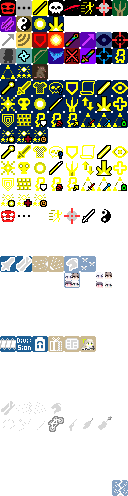
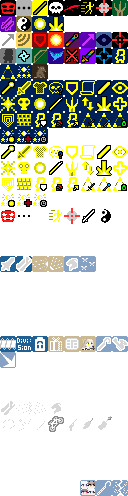
미야코 교복 능력 1 및 특성 구현, 문장 추가, 특성 및 교복 능력 아이콘 추가

diff --git a/core/src/main/java/com/shatteredpixel/shatteredpixeldungeon/actors/hero/abilities/miyako/WireHook.java b/core/src/main/java/com/shatteredpixel/shatteredpixeldungeon/actors/hero/abilities/miyako/WireHook.java
@@ -1,13 +1,32 @@
 package com.shatteredpixel.shatteredpixeldungeon.actors.hero.abilities.miyako;
 
+import com.shatteredpixel.shatteredpixeldungeon.Dungeon;
+import com.shatteredpixel.shatteredpixeldungeon.actors.Actor;
+import com.shatteredpixel.shatteredpixeldungeon.actors.Char;
+import com.shatteredpixel.shatteredpixeldungeon.actors.buffs.Buff;
+import com.shatteredpixel.shatteredpixeldungeon.actors.buffs.Cripple;
+import com.shatteredpixel.shatteredpixeldungeon.actors.buffs.FlavourBuff;
 import com.shatteredpixel.shatteredpixeldungeon.actors.buffs.Invisibility;
+import com.shatteredpixel.shatteredpixeldungeon.actors.buffs.Roots;
 import com.shatteredpixel.shatteredpixeldungeon.actors.hero.Hero;
 import com.shatteredpixel.shatteredpixeldungeon.actors.hero.Talent;
 import com.shatteredpixel.shatteredpixeldungeon.actors.hero.abilities.ArmorAbility;
-import com.shatteredpixel.shatteredpixeldungeon.actors.hero.abilities.warrior.HeroicLeap;
+import com.shatteredpixel.shatteredpixeldungeon.effects.Chains;
+import com.shatteredpixel.shatteredpixeldungeon.effects.Effects;
+import com.shatteredpixel.shatteredpixeldungeon.effects.Pushing;
+import com.shatteredpixel.shatteredpixeldungeon.items.Item;
 import com.shatteredpixel.shatteredpixeldungeon.items.armor.ClassArmor;
+import com.shatteredpixel.shatteredpixeldungeon.levels.MiningLevel;
+import com.shatteredpixel.shatteredpixeldungeon.mechanics.Ballistica;
 import com.shatteredpixel.shatteredpixeldungeon.messages.Messages;
+import com.shatteredpixel.shatteredpixeldungeon.scenes.GameScene;
+import com.shatteredpixel.shatteredpixeldungeon.ui.BuffIndicator;
 import com.shatteredpixel.shatteredpixeldungeon.ui.HeroIcon;
+import com.shatteredpixel.shatteredpixeldungeon.utils.GLog;
+import com.watabou.noosa.Image;
+import com.watabou.utils.BArray;
+import com.watabou.utils.Callback;
+import com.watabou.utils.PathFinder;
 
 public class WireHook extends ArmorAbility {
     {
@@ -16,13 +35,49 @@ public class WireHook extends ArmorAbility {
 
     @Override
     protected void activate(ClassArmor armor, Hero hero, Integer target) {
-        if (target != null) {
-            armor.charge -= chargeUse(hero);
-            armor.updateQuickslot();
-            Invisibility.dispel();
+        if (target != null && (Dungeon.level.visited[target] || Dungeon.level.mapped[target])){
+            //chains cannot be used to go where it is impossible to walk to
+            PathFinder.buildDistanceMap(target, BArray.or(Dungeon.level.passable, Dungeon.level.avoid, null));
+            if (!(Dungeon.level instanceof MiningLevel) && PathFinder.distance[hero.pos] == Integer.MAX_VALUE){
+                GLog.w( Messages.get(this, "cant_reach") );
+                return;
+            }
 
-            hero.spendAndNext(1f);
-            hero.sprite.zap(target);
+            int ballistica = Ballistica.PROJECTILE;
+
+            final Ballistica chain = new Ballistica(hero.pos, target, ballistica);
+
+            Char ch = Actor.findChar( chain.collisionPos );
+            if (ch != null){
+                if (chainEnemy( chain, hero, ch )) {
+                    armor.charge -= chargeUse(hero);
+                    armor.updateQuickslot();
+                    Invisibility.dispel();
+
+                    hero.spendAndNext(1f);
+                    hero.sprite.zap(target);
+
+                    Buff.affect(ch, Cripple.class, 5f);
+
+                    if (hero.hasTalent(Talent.MIYAKO_ARMOR1_1)) {
+                        Buff.affect(ch, Roots.class, hero.pointsInTalent(Talent.MIYAKO_ARMOR1_1));
+                    }
+                    if (hero.hasTalent(Talent.MIYAKO_ARMOR1_2)) {
+                        if (hero.buff(ContinuousChainTracker.class) == null) {
+                            Buff.affect(hero, ContinuousChainTracker.class, ContinuousChainTracker.DURATION);
+                        } else {
+                            hero.buff(ContinuousChainTracker.class).detach();
+                        }
+                    }
+                    if (hero.hasTalent(Talent.MIYAKO_ARMOR1_3)) {
+                        Buff.affect(hero, PointBlankShot.class, 4f*hero.pointsInTalent(Talent.MIYAKO_ARMOR1_3));
+                    }
+                } else {
+                    GLog.w( Messages.get(this, "failed") );
+                }
+            } else {
+                GLog.w( Messages.get(this, "no_char") );
+            }
         }
     }
 
@@ -39,15 +94,86 @@ public class WireHook extends ArmorAbility {
     @Override
     public float chargeUse( Hero hero ) {
         float chargeUse = super.chargeUse(hero);
-//        if (hero.buff(HeroicLeap.DoubleJumpTracker.class) != null){
-//            //reduced charge use by 16%/30%/41%/50%
-//            chargeUse *= Math.pow(0.84, hero.pointsInTalent(Talent.DOUBLE_JUMP));
-//        }
+        if (hero.buff(ContinuousChainTracker.class) != null){
+            //reduced charge use by 16%/30%/41%/50%
+            chargeUse *= (float) Math.pow(0.9f, hero.pointsInTalent(Talent.MIYAKO_ARMOR1_2));
+        }
         return chargeUse;
     }
 
     @Override
     public Talent[] talents() {
         return new Talent[]{Talent.MIYAKO_ARMOR1_1, Talent.MIYAKO_ARMOR1_2, Talent.MIYAKO_ARMOR1_3, Talent.HEROIC_ENERGY};
+    }
+
+    //returns true when pulling is successfully performed
+    private boolean chainEnemy( Ballistica chain, final Hero hero, final Char enemy ){
+        if (enemy.properties().contains(Char.Property.IMMOVABLE)) {
+            GLog.w( Messages.get(this, "cant_pull") );
+            return false;
+        }
+
+        int bestPos = -1;
+        for (int i : chain.subPath(1, chain.dist)){
+            //prefer to the earliest point on the path
+            if (!Dungeon.level.solid[i]
+                    && Actor.findChar(i) == null
+                    && (!Char.hasProp(enemy, Char.Property.LARGE) || Dungeon.level.openSpace[i])){
+                bestPos = i;
+                break;
+            }
+        }
+
+        if (bestPos == -1) {
+            GLog.i(Messages.get(this, "does_nothing"));
+            return false;
+        }
+
+        final int pulledPos = bestPos;
+        hero.sprite.parent.add(new Chains(hero.sprite.center(),
+            enemy.sprite.center(),
+            Effects.Type.CHAIN,
+            new Callback() {
+                public void call() {
+                    Actor.add(new Pushing(enemy, enemy.pos, pulledPos, new Callback() {
+                        public void call() {
+                            enemy.pos = pulledPos;
+                            Dungeon.level.occupyCell(enemy);
+                            Dungeon.observe();
+                            GameScene.updateFog();
+
+                            Item.updateQuickslot();
+                        }
+                    }));
+                }
+            })
+        );
+        return true;
+    }
+
+    public static class ContinuousChainTracker extends FlavourBuff {
+        {
+            type = buffType.NEUTRAL;
+        }
+        public static final float DURATION = 3f;
+    }
+
+    public static class PointBlankShot extends FlavourBuff {
+        {
+            type = buffType.POSITIVE;
+            announced = true;
+        }
+
+        public static final float DURATION = 16f;
+
+        @Override
+        public int icon() {
+            return BuffIndicator.INVERT_MARK;
+        }
+
+        @Override
+        public void tintIcon(Image icon) {
+            icon.hardlight(0x4D4D4D);
+        }
     }
 }

diff --git a/core/src/main/java/com/shatteredpixel/shatteredpixeldungeon/items/weapon/melee/gun/Gun.java b/core/src/main/java/com/shatteredpixel/shatteredpixeldungeon/items/weapon/melee/gun/Gun.java
@@ -14,6 +14,7 @@ import com.shatteredpixel.shatteredpixeldungeon.actors.buffs.ShootAllBuff;
 import com.shatteredpixel.shatteredpixeldungeon.actors.hero.Hero;
 import com.shatteredpixel.shatteredpixeldungeon.actors.hero.HeroClass;
 import com.shatteredpixel.shatteredpixeldungeon.actors.hero.Talent;
+import com.shatteredpixel.shatteredpixeldungeon.actors.hero.abilities.miyako.WireHook;
 import com.shatteredpixel.shatteredpixeldungeon.actors.hero.abilities.nonomi.Bipod;
 import com.shatteredpixel.shatteredpixeldungeon.actors.mobs.Mob;
 import com.shatteredpixel.shatteredpixeldungeon.effects.CellEmitter;
@@ -752,6 +753,15 @@ public class Gun extends MeleeWeapon {
                 ACC *= Bipod.BipodBuff.bulletAccMultiplier();
             }
             ACC = Gun.this.barrelMod.bulletAccuracyFactor(ACC, Dungeon.level.adjacent(owner.pos, target.pos));
+            return ACC;
+        }
+
+        @Override
+        protected float adjacentAccFactor(Char owner, Char target) {
+            float ACC = super.adjacentAccFactor(owner, target);
+            if (owner instanceof Hero && owner.buff(WireHook.PointBlankShot.class) != null) {
+                ACC *= 3f;
+            }
             return ACC;
         }
 
